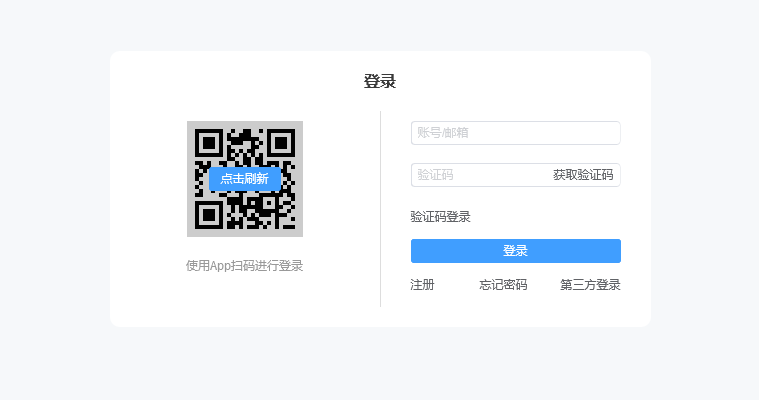
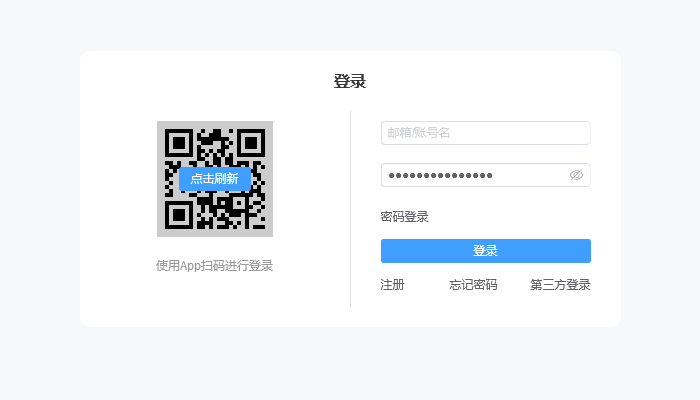
add registre view

diff --git a/package/sso/Sign/register.vue b/package/sso/Sign/register.vue
@@ -1,7 +1,33 @@
 <template>
-  <div class="var-sign__register">
-    SignRegister
+  <div class="var-sign__register" style="width: 250px;">
+    <div class="var-sign--title">注册</div>
+    <dynamic-form :fields="data.fields" v-model="data.formData"/>
+    <el-button type="danger">注册</el-button>
+    <div style="padding-top: 10px;">
+      <div style="display: inline-block; font-size: 12px;">已有账号，</div>
+      <el-button text @click="onLogin">去登录</el-button>
+    </div>
   </div>
 </template>
 
 <script lang="ts">export default { name: 'SignRegister' };</script>
+<script lang="ts" setup>
+import DynamicForm from '@models/DynamicForm/index.vue';
+import { useRouter } from 'vue-router';
+import { reactive } from 'vue';
+
+const routes = useRouter();
+const data = reactive<any>({
+  formData: {},
+  fields: [
+    { prop: 'email', type: 'text', placeholder: '邮箱' },
+    { prop: 'code', type: 'code', placeholder: '验证码' },
+    { prop: 'pass', type: 'password', placeholder: '密码' },
+    { prop: 'hasPass', type: 'password', placeholder: '确认密码' },
+  ],
+});
+
+function onLogin() {
+  routes.push({ path: '/sign/login' });
+}
+</script>

diff --git a/package/sso/Sign/src/style.scss b/package/sso/Sign/src/style.scss
@@ -1,4 +1,13 @@
 .var-sign {
+  &--title {
+    width: 100%;
+    color: #3a3a3a;
+    font-size: 16px;
+    font-weight: bold;
+    line-height: 40px;
+    text-align: center;
+  }
+
   &__login,
   &__register {
     top: 30%;
@@ -18,15 +27,6 @@
   }
 
   &__login {
-    &--title {
-      width: 100%;
-      color: #3a3a3a;
-      font-size: 16px;
-      font-weight: bold;
-      line-height: 40px;
-      text-align: center;
-    }
-
     &--body {
       display: flex;
       padding: 10px;
@@ -78,5 +78,22 @@
   }
 
   &__register {
+    .el-button {
+      padding-left: 0;
+      padding-right: 0;
+
+      &.is-text:not(.is-disabled) {
+        &:focus-visible {
+          outline: none;
+          background: none;
+        }
+
+        &:focus,
+        &:hover {
+          background: none;
+          color: var(--el-color-primary);
+        }
+      }
+    }
   }
 }

diff --git a/package/sso/Sign/login.vue b/package/sso/Sign/login.vue
@@ -1,6 +1,6 @@
 <template>
   <div class="var-sign__login">
-    <div class="var-sign__login--title">登录</div>
+    <div class="var-sign--title">登录</div>
     <div class="var-sign__login--body">
       <div class="var-sign__login--left">
         <qr-code value="使用App扫码进行登录" :expires="1" description="使用App扫码进行登录" @click="onQrCode"/>
@@ -42,7 +42,7 @@ const route = useRoute();
 const routes = useRouter();
 const data = reactive<any>({
   fields: [
-    { prop: 'user', type: 'text', placeholder: '账号/邮箱' },
+    { prop: 'user', type: 'text', placeholder: '邮箱/账号名' },
     { show: true, prop: 'pass', type: 'password', placeholder: '密码' },
     { show: false, prop: 'pass', type: 'code', placeholder: '验证码', codePlaceholder: '获取验证码', click: 'code' },
   ],

diff --git a/src/components/DynamicForm/types.ts b/src/components/DynamicForm/types.ts
@@ -1,12 +1,13 @@
-export type  FieldType = 'input' | 'select';
+export type  FieldType = 'text' | 'password' | 'code';
 
 export interface Field {
   prop: string;
-  label: string;
   show?: bigint;
-  labelWidth: string;
+  label?: string;
+  labelWidth?: string;
   // ----------------------------------------------------------------
   type: FieldType;
+  placeholder?: string;
   options?: Array<{ value: string, label: string }>;
 }
 

diff --git a/src/components/DynamicForm/module/code.vue b/src/components/DynamicForm/module/code.vue
@@ -33,6 +33,8 @@ function onClick() {
 <style lang="scss" scoped>
 .var-dynamic__code .el-button {
   padding: 0;
+  color: #999;
   height: 22px;
+  font-size: 11px;
 }
 </style>
